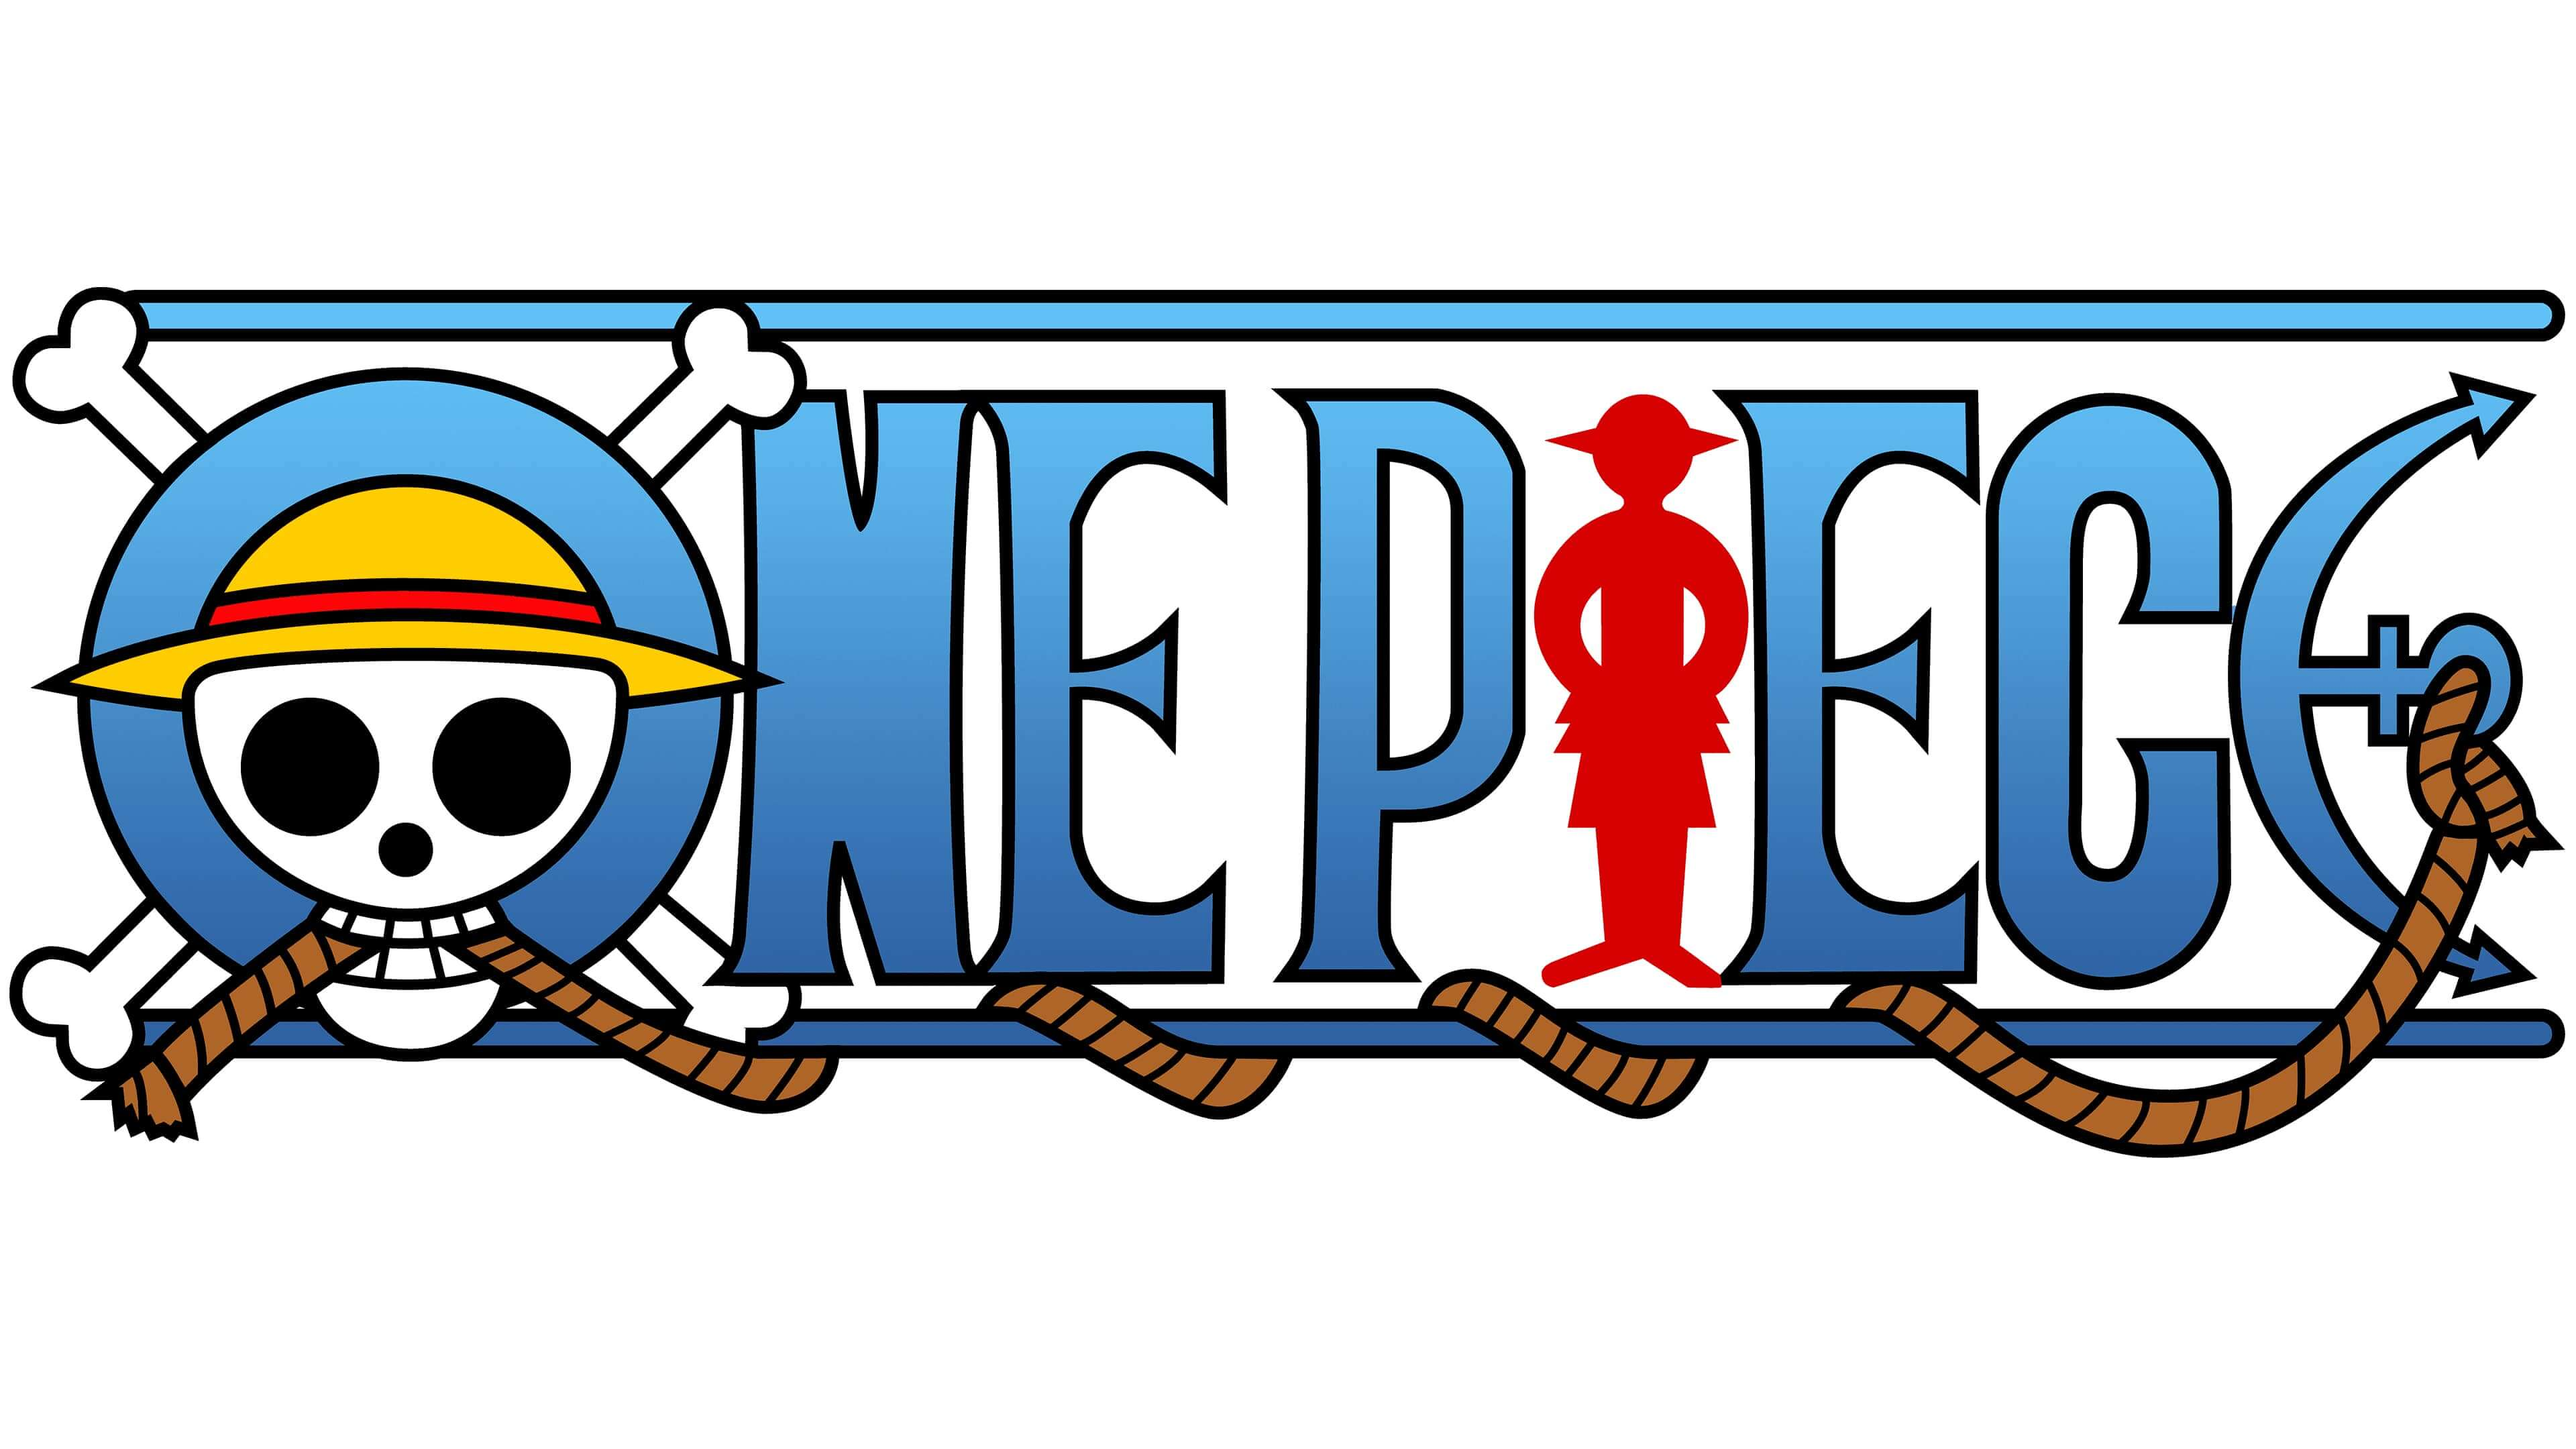
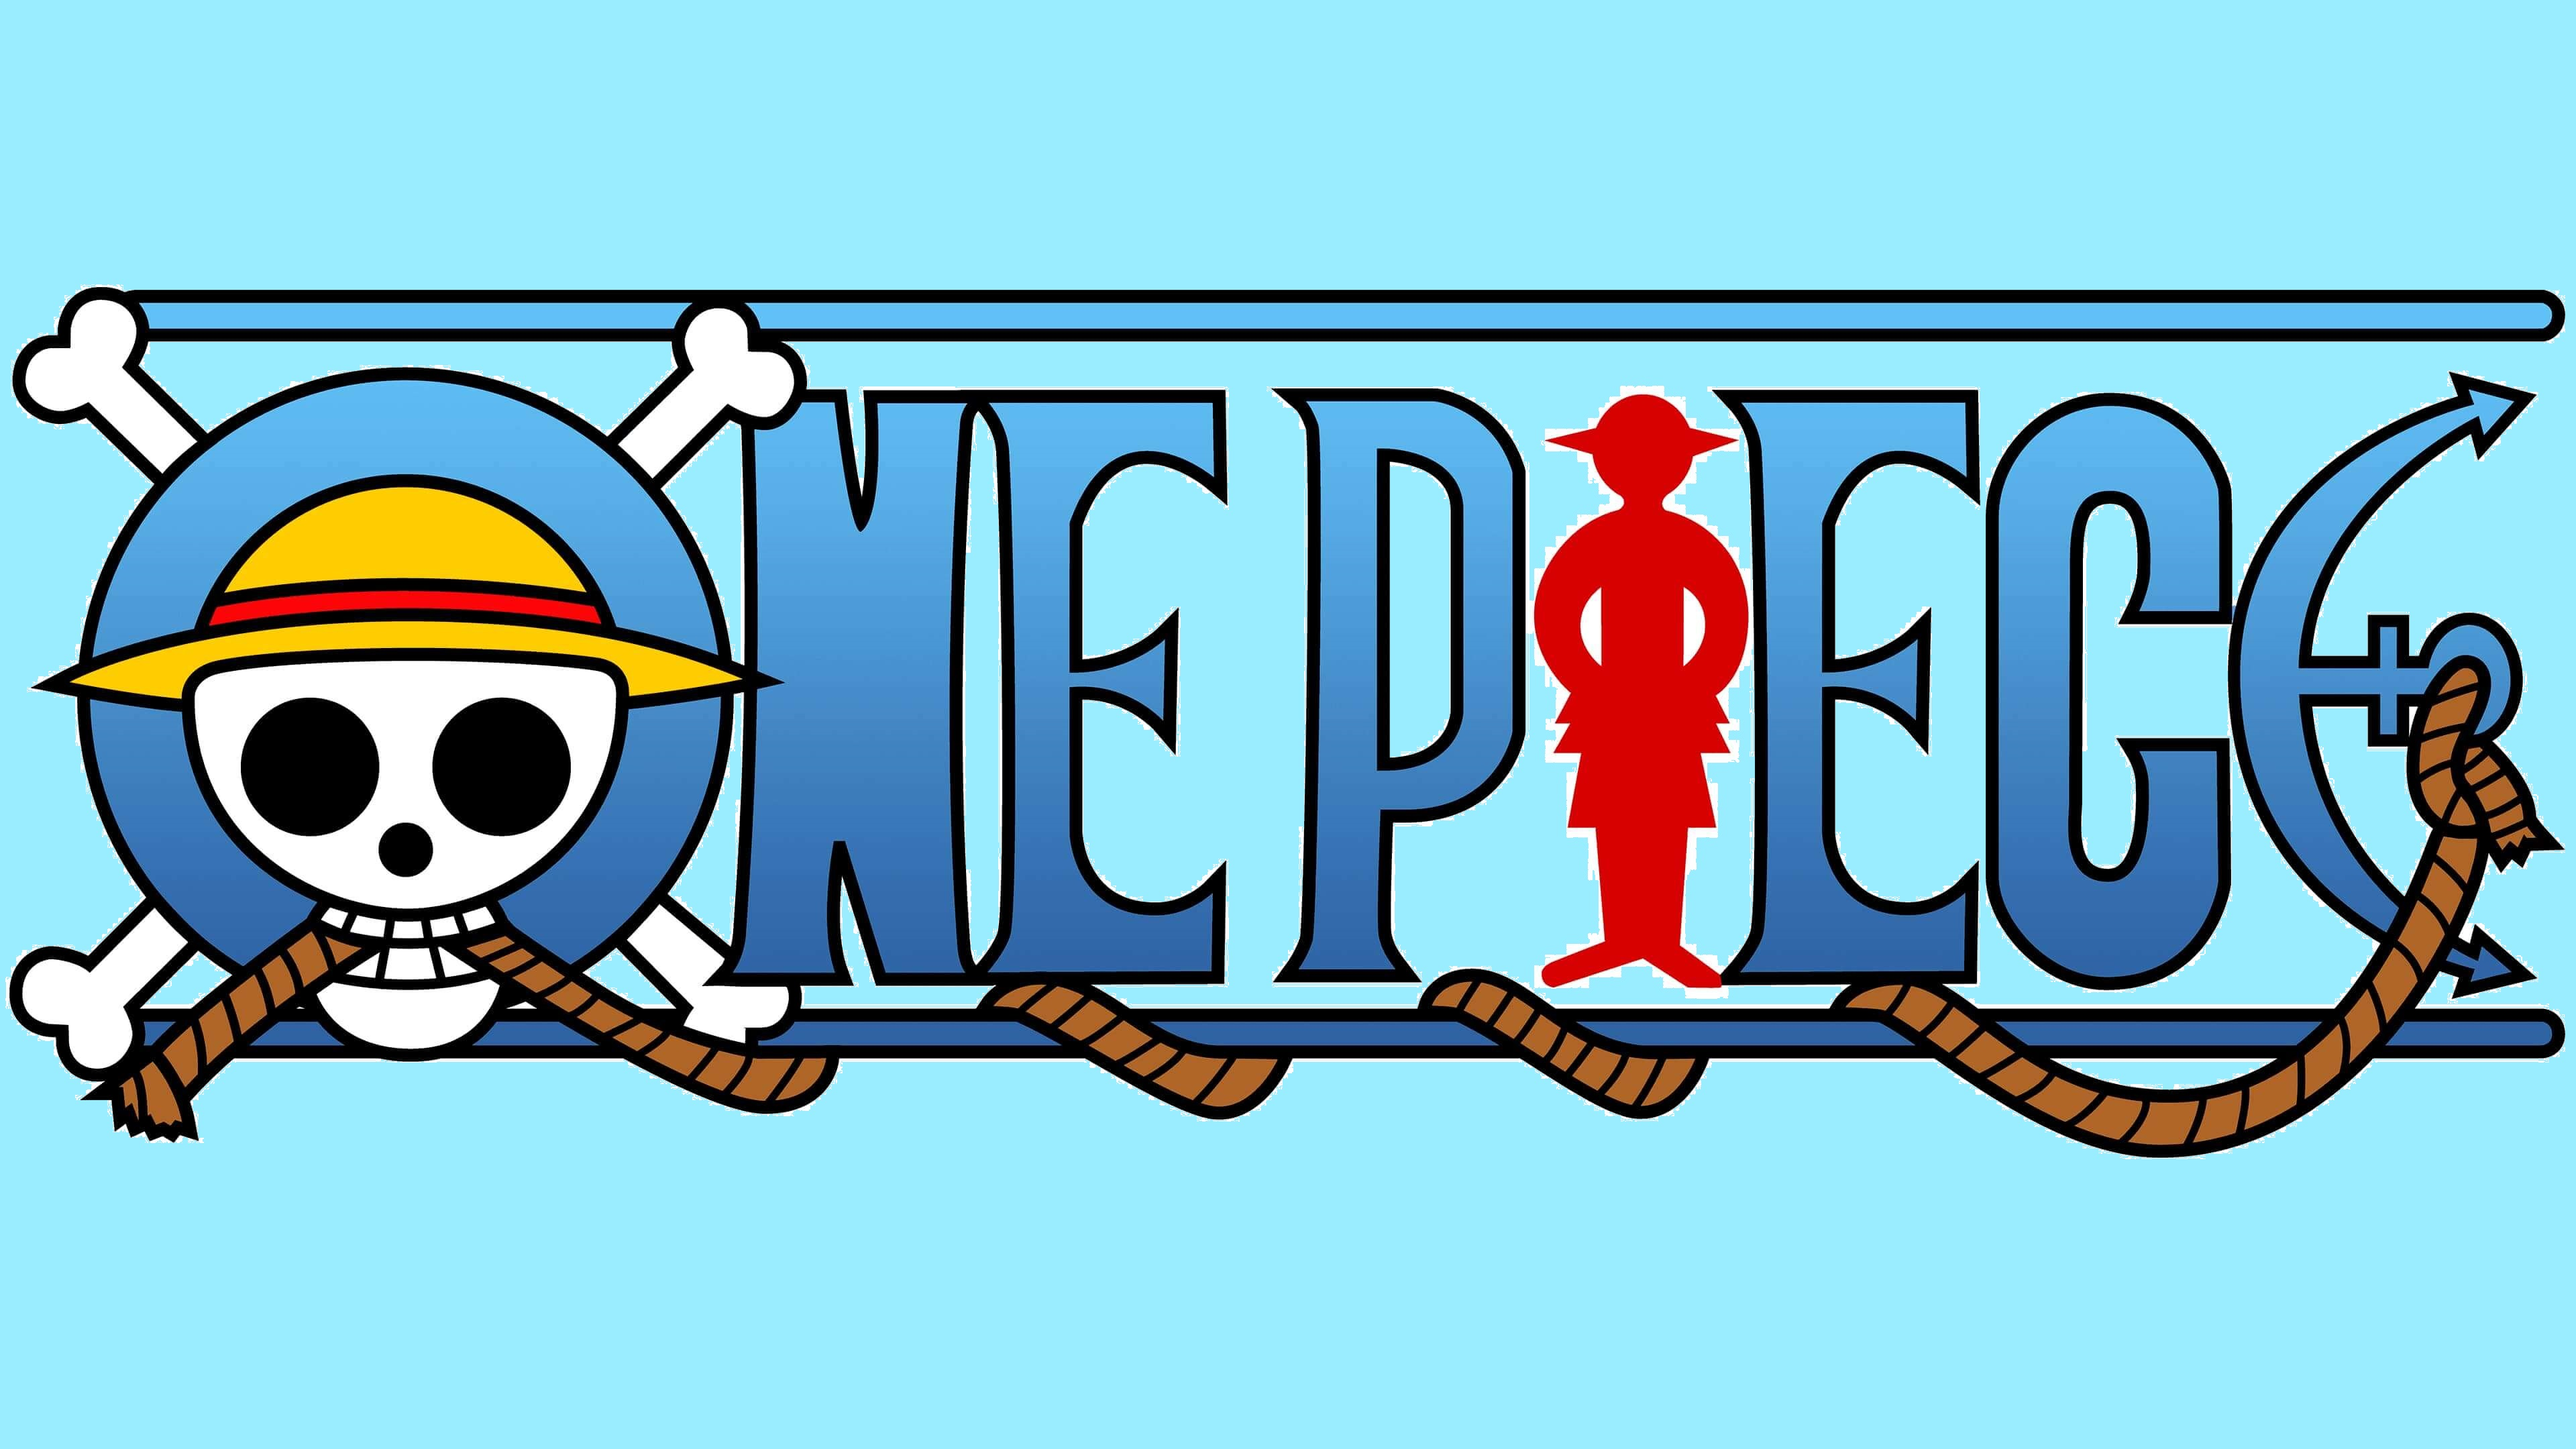
Barvička, font atd

diff --git a/index.html b/index.html
@@ -4,7 +4,12 @@
 <head>
     <title>One Piece</title>
     <style>
+        body{
+            background-color:rgb(154,236,255);
+        }
         h1{
+            font-family:Georgia, 'Times New Roman', Times, serif ;
+            font-size: 100px;
             color:blue
         }
         table,
@@ -13,7 +18,7 @@
             font-size: 24px;
             border: 1px solid black;
             border-collapse: collapse;
-            background-color: #dddddd;
+            background-color: #4796f0;
         }
     </style>
 </head>
@@ -23,7 +28,7 @@
     <div style=" font-size: 21px;">
         <div style="text-align: center;">
 
-            <img src="one_piece.jpg" width="600" alt="Logo seriálu one_piece">
+            <img src="one_piece.jpg" width="900" alt="Logo seriálu one_piece">
             <header>
 
                 <h1><strong>One Piece</strong></h1>
